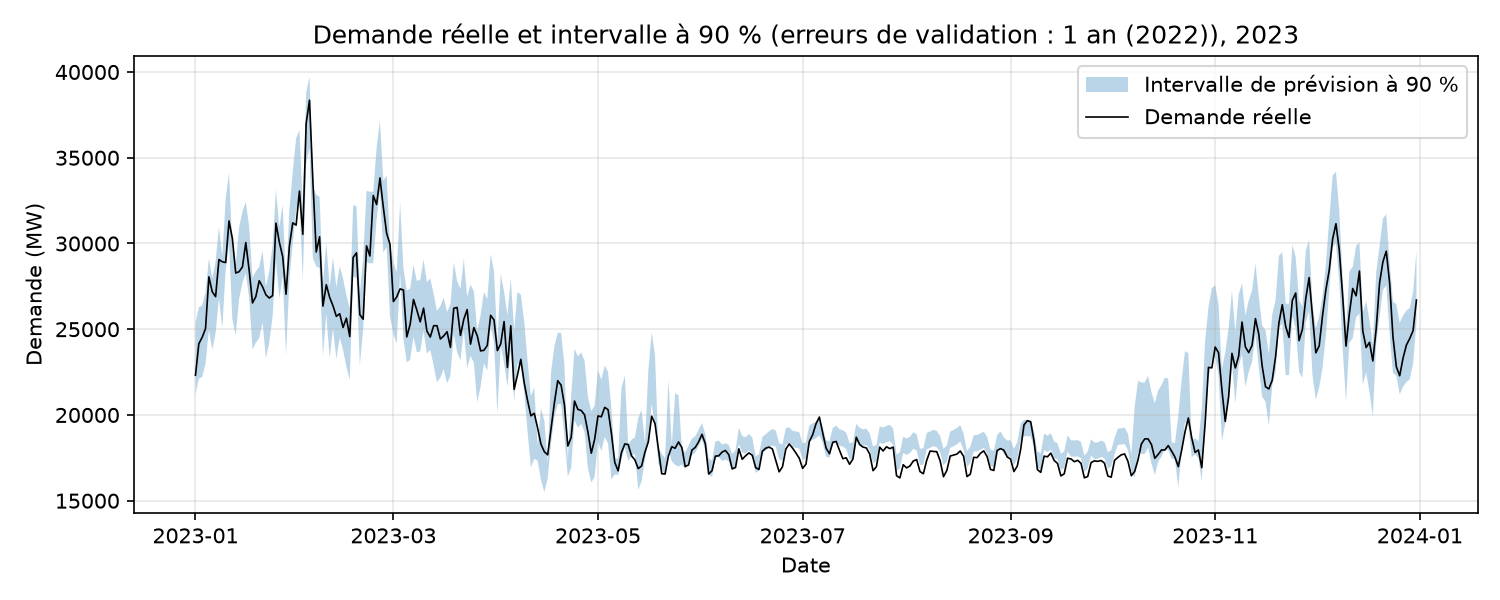
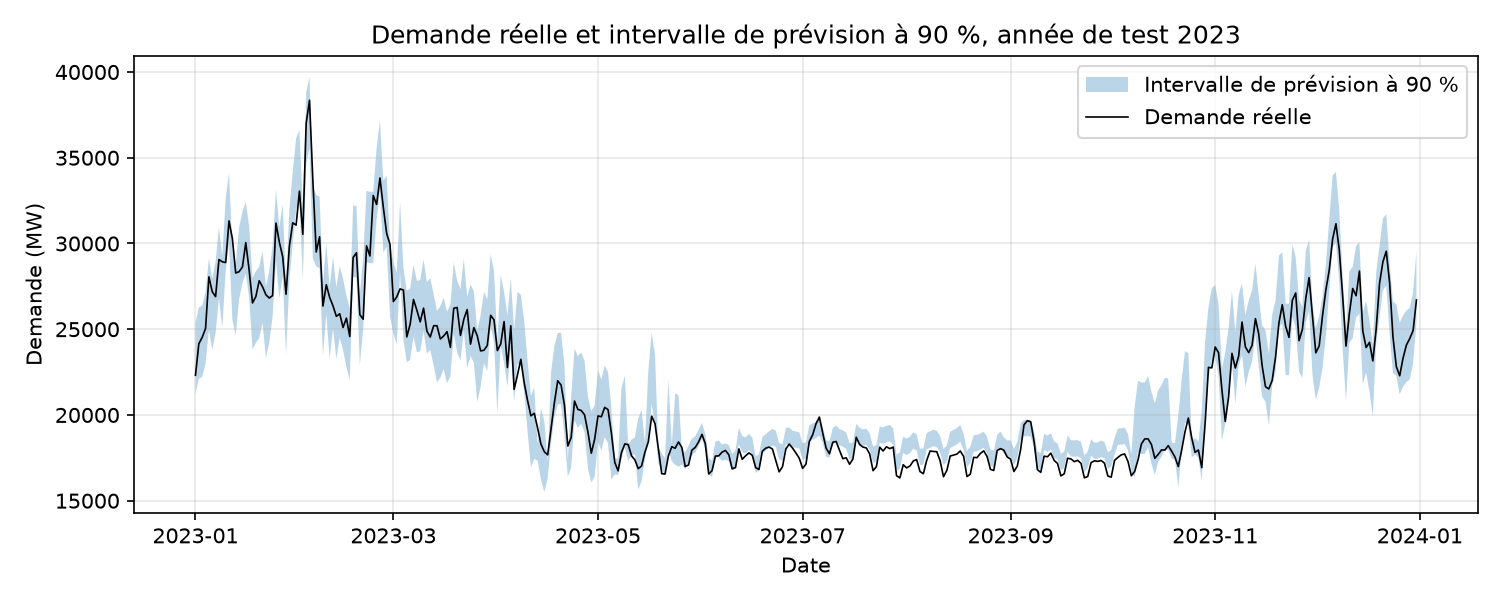
Retour à la première version des intervalles : retrait de la version 2 ans et de la simulation météo

Changed region(s): [[0.2147, 0.03, 0.8587, 0.09]]

diff --git a/src/intervalles.py b/src/intervalles.py
@@ -1,16 +1,12 @@
 # Intervalles d'incertitude des prévisions, à 90 %.
 #
 # Méthode : la largeur des intervalles vient des erreurs commises sur des jours
-# que le modèle ne connaissait pas (erreurs « hors échantillon »).
-# Pour une année de validation donnée, le modèle est ajusté sur les années précédentes,
-# puis prévoit cette année. Les quantiles à 5 % et 95 % de ses erreurs donnent les bornes,
-# séparément pour les jours froids (sous T0) et les jours doux.
-#
-# Deux versions sont comparées sur 2023 :
-#   - « 1 an » : erreurs de 2022 seulement (le test officiel, défini avant de voir 2023) ;
-#   - « 2 ans » : erreurs de 2021 et de 2022 (analyse complémentaire, ajoutée après
-#     le test pour mieux capter les variations d'une année à l'autre).
-# Les bornes « 1 an » sont enregistrées pour l'application.
+# que le modèle ne connaissait pas.
+#   1. Le modèle est ajusté sur 2019-2021, puis prévoit l'année de validation 2022.
+#   2. Les erreurs de 2022 donnent les bornes à 5 % et à 95 %, séparément pour
+#      les jours froids (sous T0) et les jours doux, car les erreurs sont plus grandes l'hiver.
+#   3. Ces bornes sont ajoutées aux prévisions de 2023 du modèle final, et l'on compte
+#      la part des jours dont la demande réelle tombe dans l'intervalle.
 
 from pathlib import Path
 import matplotlib.pyplot as plt
@@ -20,10 +16,9 @@ from modele import T0, ajuster, prevoir
 
 RACINE = Path(__file__).resolve().parent.parent
 DOSSIER = RACINE / "data" / "processed"
-DOSSIER_FIGURES = RACINE / "figures"
+FICHIER_FIGURE = RACINE / "figures" / "intervalles_2023.png"
 NIVEAU = 0.90
 BAS, HAUT = (1 - NIVEAU) / 2, 1 - (1 - NIVEAU) / 2  # quantiles 5 % et 95 %
-VERSIONS = {"1 an (2022)": [2022], "2 ans (2021-2022)": [2021, 2022]}
 
 
 def saison(donnees: pd.DataFrame) -> pd.Series:
@@ -32,36 +27,49 @@ def saison(donnees: pd.DataFrame) -> pd.Series:
     return froid.map({True: "froid", False: "doux"}).rename("saison")
 
 
-def erreurs_hors_echantillon(donnees: pd.DataFrame, annee_validation: int) -> pd.DataFrame:
-    """Erreurs d'un modèle ajusté sur les années précédant l'année de validation."""
+def bornes_validation(donnees: pd.DataFrame) -> pd.DataFrame:
+    """Les quantiles des erreurs de 2022, pour un modèle ajusté sur 2019-2021."""
     annee = donnees["date"].dt.year
-    apprentissage = donnees[annee < annee_validation]
-    validation = donnees[annee == annee_validation]
+    apprentissage, validation = donnees[annee <= 2021], donnees[annee == 2022]
     modele = ajuster(apprentissage)
     erreur = validation["demande_mw"] - prevoir(modele, validation)
-    return pd.DataFrame({"erreur": erreur, "saison": saison(validation)})
-
-
-def calculer_bornes(donnees: pd.DataFrame, annees_validation: list[int]) -> pd.DataFrame:
-    """Les quantiles des erreurs hors échantillon, regroupées sur les années de validation."""
-    erreurs = pd.concat([erreurs_hors_echantillon(donnees, a) for a in annees_validation])
-    bornes = erreurs.groupby("saison")["erreur"].quantile([BAS, HAUT]).unstack()
+    bornes = erreur.groupby(saison(validation)).quantile([BAS, HAUT]).unstack()
     bornes.columns = ["borne_basse", "borne_haute"]
     return bornes
 
 
-def appliquer(p: pd.DataFrame, bornes: pd.DataFrame) -> pd.DataFrame:
-    """Ajoute les bornes de l'intervalle aux prévisions de 2023."""
+def figure_intervalles(p: pd.DataFrame) -> None:
+    """La demande réelle de 2023 et l'intervalle de prévision à 90 %."""
+    fig, ax = plt.subplots(figsize=(10, 4))
+    ax.fill_between(p["date"], p["borne_basse"], p["borne_haute"],
+                    alpha=0.3, label="Intervalle de prévision à 90 %")
+    ax.plot(p["date"], p["reel"], linewidth=0.8, color="black", label="Demande réelle")
+    ax.set_title("Demande réelle et intervalle de prévision à 90 %, année de test 2023")
+    ax.set_xlabel("Date")
+    ax.set_ylabel("Demande (MW)")
+    ax.legend()
+    ax.grid(alpha=0.3)
+    fig.tight_layout()
+    fig.savefig(FICHIER_FIGURE, dpi=150)
+    plt.close(fig)
+    print(f"\nFigure enregistrée : {FICHIER_FIGURE}")
+
+
+def main() -> None:
+    donnees = pd.read_csv(DOSSIER / "donnees_journalieres.csv", parse_dates=["date"])
+
+    # 1-2. Les bornes, à partir des erreurs de l'année de validation
+    bornes = bornes_validation(donnees)
+    bornes.to_csv(DOSSIER / "bornes_intervalle.csv")
+    print("=== Bornes de l'intervalle à 90 %, tirées des erreurs de 2022 (MW) ===")
+    print(bornes.round(0).to_string())
+
+    # 3. Application aux prévisions de 2023
+    p = pd.read_csv(DOSSIER / "previsions_2023.csv", parse_dates=["date"])
     s = saison(p)
-    p = p.copy()
     p["borne_basse"] = p["modele_v"] + s.map(bornes["borne_basse"])
     p["borne_haute"] = p["modele_v"] + s.map(bornes["borne_haute"])
-    return p
 
-
-def couverture(p: pd.DataFrame) -> pd.DataFrame:
-    """La part des jours de 2023 dont la demande réelle tombe dans l'intervalle."""
-    s = saison(p)
     dedans = p["reel"].between(p["borne_basse"], p["borne_haute"])
     resume = pd.DataFrame({
         "jours": s.value_counts(),
@@ -70,52 +78,11 @@ def couverture(p: pd.DataFrame) -> pd.DataFrame:
         "au-dessus de la borne haute (%)": (p["reel"] > p["borne_haute"]).groupby(s).mean() * 100,
         "largeur moyenne (MW)": (p["borne_haute"] - p["borne_basse"]).groupby(s).mean(),
     })
-    resume.loc["ensemble"] = [len(p), dedans.mean() * 100,
-                              (p["reel"] < p["borne_basse"]).mean() * 100,
-                              (p["reel"] > p["borne_haute"]).mean() * 100,
-                              (p["borne_haute"] - p["borne_basse"]).mean()]
-    resume["jours"] = resume["jours"].astype(int)
-    return resume
+    print(f"\n=== Couverture sur 2023 (objectif : {NIVEAU:.0%}) ===")
+    print(resume.round(1).to_string())
+    print(f"\nCouverture sur l'ensemble de 2023 : {dedans.mean():.1%}")
 
-
-def figure_intervalles(p: pd.DataFrame, version: str, nom_fichier: str) -> None:
-    """La demande réelle de 2023 et l'intervalle de prévision à 90 %."""
-    fig, ax = plt.subplots(figsize=(10, 4))
-    ax.fill_between(p["date"], p["borne_basse"], p["borne_haute"],
-                    alpha=0.3, label="Intervalle de prévision à 90 %")
-    ax.plot(p["date"], p["reel"], linewidth=0.8, color="black", label="Demande réelle")
-    ax.set_title(f"Demande réelle et intervalle à 90 % (erreurs de validation : {version}), 2023")
-    ax.set_xlabel("Date")
-    ax.set_ylabel("Demande (MW)")
-    ax.legend()
-    ax.grid(alpha=0.3)
-    fig.tight_layout()
-    fig.savefig(DOSSIER_FIGURES / nom_fichier, dpi=150)
-    plt.close(fig)
-    print(f"Figure enregistrée : {DOSSIER_FIGURES / nom_fichier}")
-
-
-def main() -> None:
-    donnees = pd.read_csv(DOSSIER / "donnees_journalieres.csv", parse_dates=["date"])
-    previsions = pd.read_csv(DOSSIER / "previsions_2023.csv", parse_dates=["date"])
-    fichiers = {"1 an (2022)": "intervalles_2023.png", "2 ans (2021-2022)": "intervalles_2023_deux_ans.png"}
-
-    for version, annees in VERSIONS.items():
-        bornes = calculer_bornes(donnees, annees)
-        p = appliquer(previsions, bornes)
-        print(f"\n=== Version {version} ===")
-        print("Bornes autour de la prévision (MW) :")
-        print(bornes.round(0).to_string())
-        print(f"Couverture sur 2023 (objectif : {NIVEAU:.0%}) :")
-        print(couverture(p).round(1).to_string())
-        figure_intervalles(p, version, fichiers[version])
-
-    # L'application utilise la version « 1 an » : les erreurs de 2022 viennent d'un modèle
-    # ajusté sur trois ans, plus proche du modèle final que celui de 2021 (deux ans).
-    calculer_bornes(donnees, VERSIONS["1 an (2022)"]).to_csv(DOSSIER / "bornes_intervalle.csv")
-    # L'application utilise la version « 2 ans ».
-    #calculer_bornes(donnees, VERSIONS["2 ans (2021-2022)"]).to_csv(DOSSIER / "bornes_intervalle.csv")
-    print(f"\nBornes de l'application enregistrées : {DOSSIER / 'bornes_intervalle.csv'}")
+    figure_intervalles(p)
 
 
 if __name__ == "__main__":

diff --git a/app.py b/app.py
@@ -184,7 +184,6 @@ def onglet_comprendre() -> None:
                "modèle évalué, ajusté sur 2019 à 2022.")
 
 
-# ---------------------------------------------------------------- Interface
 @st.cache_data
 def charger_previsions_2023() -> pd.DataFrame:
     """Les prévisions de l'année de test 2023 (modèle ajusté sur 2019-2022, voir evaluer_modele.py)."""
@@ -220,24 +219,23 @@ def onglet_fiabilite() -> None:
 
     st.image(str(DOSSIER_FIGURES / "reel_prevu_2023.png"),
              caption="Demande réelle et prévision du modèle, jour par jour, en 2023.")
-    st.image(str(DOSSIER_FIGURES / "erreur_selon_horizon.png"),
-             caption="Erreur de l'outil quand la température est une prévision météo, selon l'horizon.")
 
     st.subheader("Quand faire confiance à l'outil")
-    st.success("**En hiver, sur les 7 jours.** L'outil est le plus utile lors des grands froids. "
-               "Même avec une prévision météo à 7 jours, son erreur sur les jours froids reste "
-               "inférieure à celle de la climatologie.")
-    st.warning("**En saison douce, au-delà de 4 jours.** La demande dépend alors peu de la "
-               "température, et l'outil ne fait pas mieux qu'une moyenne historique. En 2023, il a "
-               "aussi surestimé la demande des mois doux, jusqu'à environ 1 100 MW en octobre, et son "
-               "intervalle à 90 % y sous-estime l'incertitude.")
+    st.success("**En hiver.** L'outil est le plus utile lors des grands froids : sur les jours les "
+               "plus froids de 2023, son erreur est inférieure de 63 % à celle de la climatologie, et "
+               "son intervalle à 90 % a contenu la demande réelle 94 % du temps en saison froide.")
+    st.warning("**En saison douce.** En 2023, l'outil a surestimé la demande des mois doux, jusqu'à "
+               "environ 1 100 MW en octobre, et son intervalle à 90 % n'a contenu la demande réelle "
+               "que 30 % du temps : il y sous-estime l'incertitude.")
     st.warning("**Au début et à la fin d'une vague de froid, et les jours fériés.** L'outil ignore "
                "l'inertie thermique des bâtiments et ne distingue pas les jours fériés, qui se "
                "comportent comme une fin de semaine.")
     st.info("**Mettre à jour le modèle régulièrement.** Ses données s'arrêtent fin 2023 ; le "
             "réajuster avec les données récentes recale le niveau de la demande, ce qui devrait "
             "réduire le biais observé pendant les mois doux.")
-    
+
+
+# ---------------------------------------------------------------- Interface
 st.set_page_config(page_title="Prévision de la demande d'électricité")
 st.title("Prévision de la demande d'électricité au Québec sur 7 jours")
 st.caption("Modèle en V : demande selon la température moyenne de Gatineau, Montréal "

diff --git a/README.md b/README.md
@@ -62,7 +62,6 @@ brutes, exécuter les scripts dans cet ordre, depuis la racine du projet :
 | 8 | `src/evaluer_modele.py` | Ajuste le modèle sur 2019-2022 et le teste sur 2023 |
 | 9 | `src/analyser_erreurs.py` | Analyse les erreurs de 2023 |
 | 10 | `src/intervalles.py` | Calcule les intervalles à 90 % et leur couverture |
-| 11 | `src/simuler_meteo.py` | Simule l'effet des erreurs de prévision météo |
 
 Exemple : `python src/evaluer_modele.py`. Les étapes 1 et 2 demandent une connexion internet.
 
